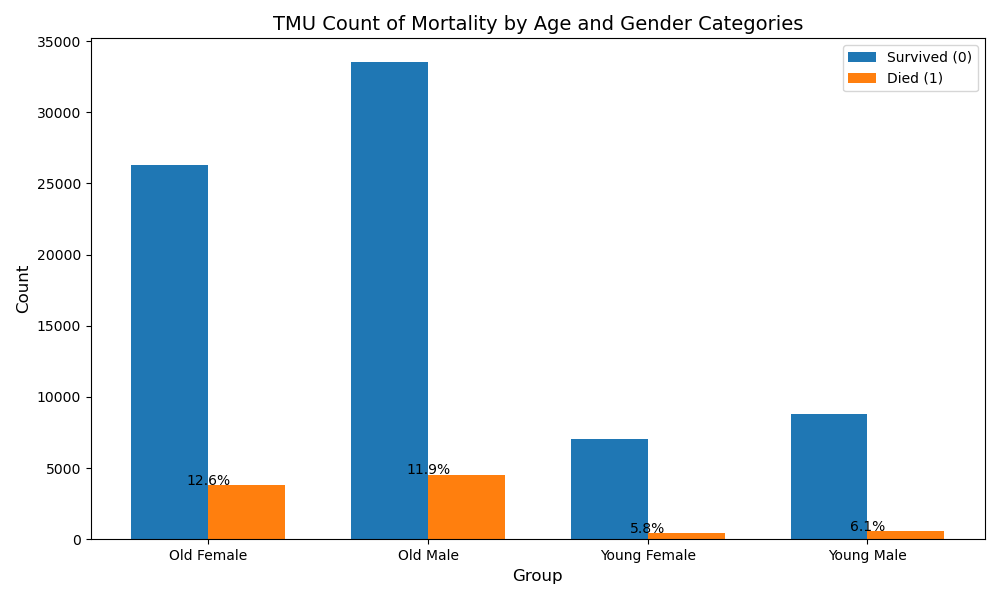
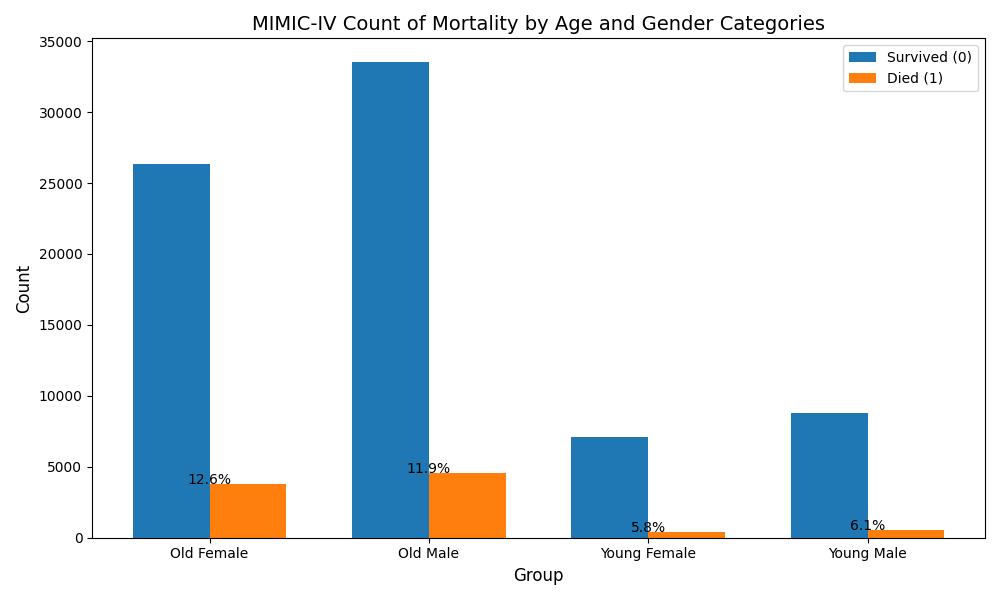
modify mimic_bar title

diff --git a/data_analysis/mimic_bar.py b/data_analysis/mimic_bar.py
@@ -44,7 +44,7 @@ for i in range(len(pivot_counts)):
 # Customize the plot
 plt.xlabel('Group', fontsize=12)
 plt.ylabel('Count', fontsize=12)
-plt.title('TMU Count of Mortality by Age and Gender Categories', fontsize=14)
+plt.title('MIMIC-IV Count of Mortality by Age and Gender Categories', fontsize=14)
 plt.xticks([p + bar_width / 2 for p in x], 
            [f"{row['age_category']} {row['gender_category']}" for _, row in pivot_counts.iterrows()])
 
